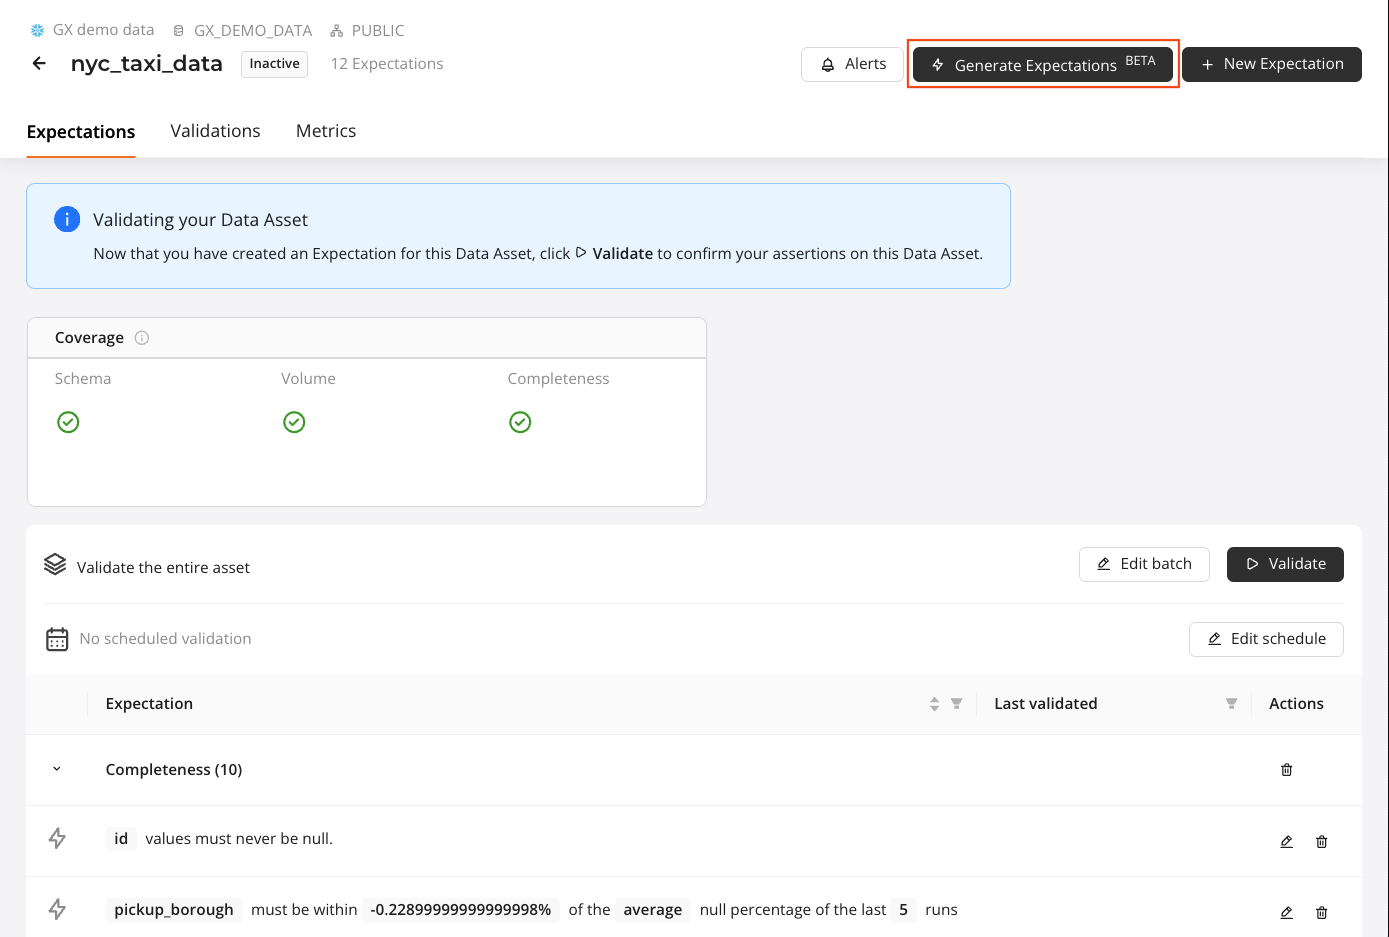
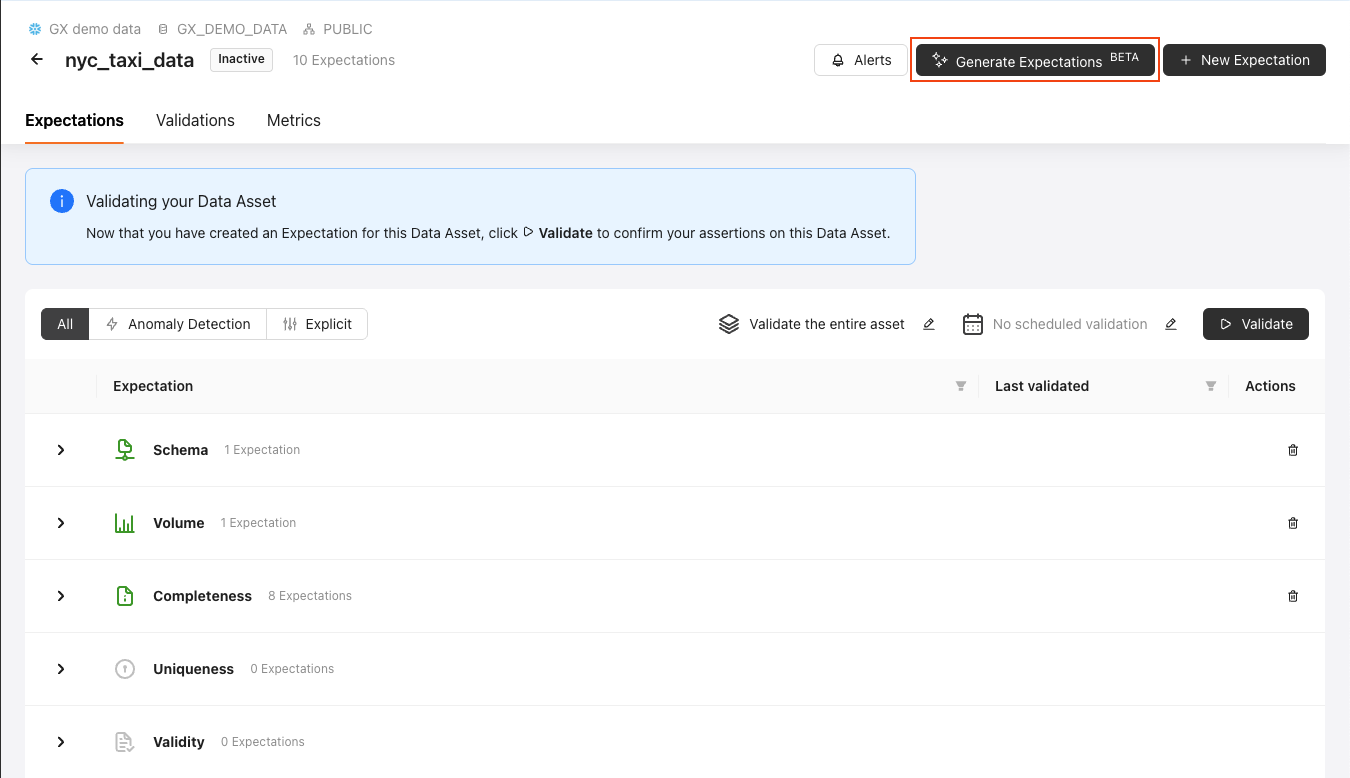
Updated screenshots and custom sql expectation

diff --git a/get_started_with_gx_cloud/workshop.md b/get_started_with_gx_cloud/workshop.md
@@ -169,28 +169,19 @@ You've already created this expectation, so go ahead and cancel creating a new e
 ## Custom SQL Expectations
 You can also create custom SQL Expectations in GX Cloud. These will fail validation if the SQL query returns one or more rows. You can perform any query against the data that you wish.
 
-Let's create a new expectation using the custom SQL Expectation form. We're going to modify the example query that is filled in by default. 
+GX Cloud provides a tool to generate SQL based on a prompt. The prompt accepts plain language and will always generate a valid SQL query that will run correctly on your data. Alternatively, you can also write your own SQL statement if you'd like.
 
 > **Create Custom SQL Expectation**
 > 1. Click on the **Expectations** tab.
 > 1. Click **+ New Expectation**.
 > 1. Click the **SQL** at the bottom of the panel.
-> 1. Enter the description, "**Queens to Newark Airport**".
-> 1. Delete the comment in the first line.
-> 1. Modify the `WHERE` clause in the query to look like this:
-```sql
-SELECT
-  *
-FROM
-  {batch}
-WHERE
-  pickup_borough = 'Queens'
-  AND dropoff_borough = 'EWR'
-  AND fare_amount < 75
-```
+> 1. In the text area, enter in `Check that rides from Queens to EWR have a fare amount of at least 75`.
+> 1. Click **Generate SQL**
 > Click **Save**.
 
-In this query, we're selecting all rides from `Queens` to the Newark Airport (code `EWR`), where the fares are less than `100` ($100 US). We know that Queens to EWR is generally a long drive, so we expect it to be expensive.
+<img src="img/generate_new_sql_expectation.png" alt="Generate a custom sql expectation" style="width:500px;"/><br>
+
+In this example, we're selecting all rides from `Queens` to the Newark Airport (code `EWR`), where the fares are less than `75` ($75 US). We know that Queens to EWR is generally a long drive, so we expect it to be expensive.
 
 <img src="img/new_sql_expectation.png" alt="Create a custom sql expectation" style="width:500px;"/><br>
 
